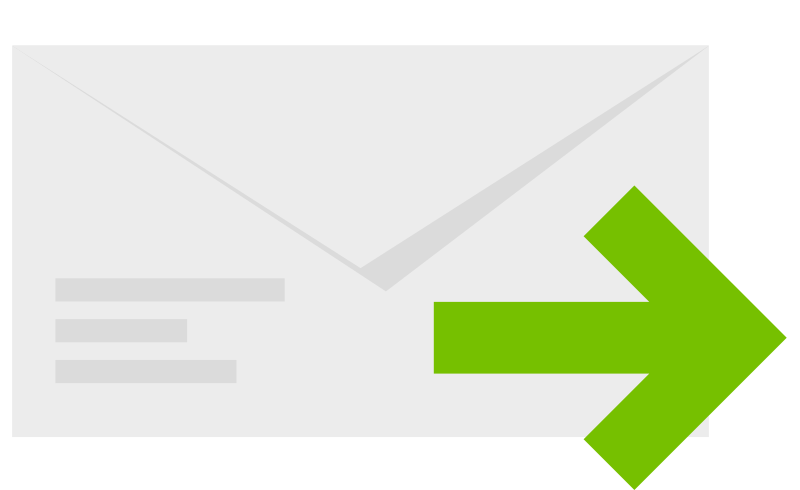
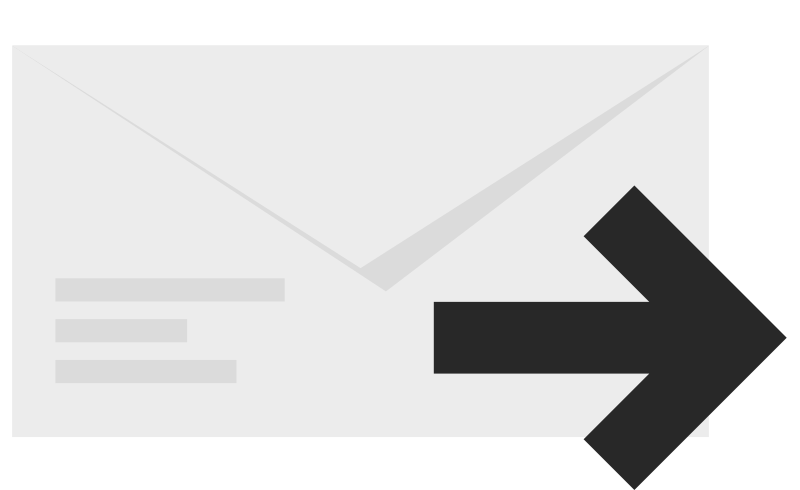
Contact about product buttons changed

Changed region(s): [[0.5312, 0.3673, 1.0, 1.0]]

diff --git a/single-post.php b/single-post.php
@@ -12,6 +12,12 @@ echo get_post_meta($post->ID, 'title', true); ?>">
             </div>
 
             <div class="text-center mb-5">
+                <a href="<?php
+                    echo get_page_link(get_page_by_path('contact'));
+                    echo '?about='.get_the_title();
+                ?>" class="button button-prim mb-3" target="_blank">
+                    Skontaktuj się w sprawie tego produktu
+                </a>
                 <a href="<?php echo get_page_link(get_page_by_path('products')); ?>" class="button">
                     Wróć na listę produktów
                 </a>
@@ -25,7 +31,7 @@ echo get_post_meta($post->ID, 'title', true); ?>">
                 <a href="<?php
                     echo get_page_link(get_page_by_path('contact'));
                     echo '?about='.get_the_title();
-                ?>" target="_blank" class="button">
+                ?>" target="_blank" class="button button-prim">
                     <div class="row font-weight-bold text-left d-flex align-items-center">
                         <div class="col-4">
                             <img src="<?php echo get_template_directory_uri(); ?>/img/contact.png" 
